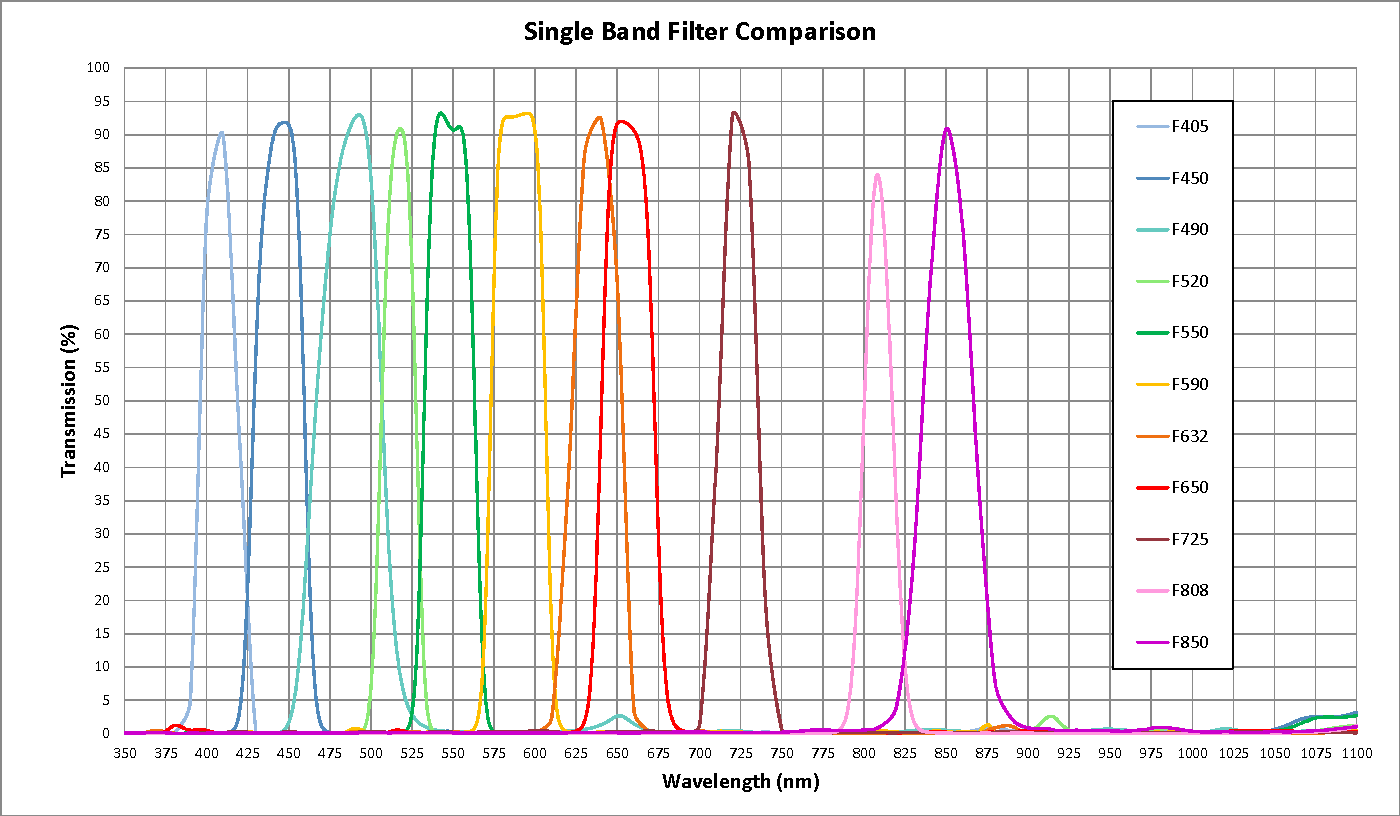
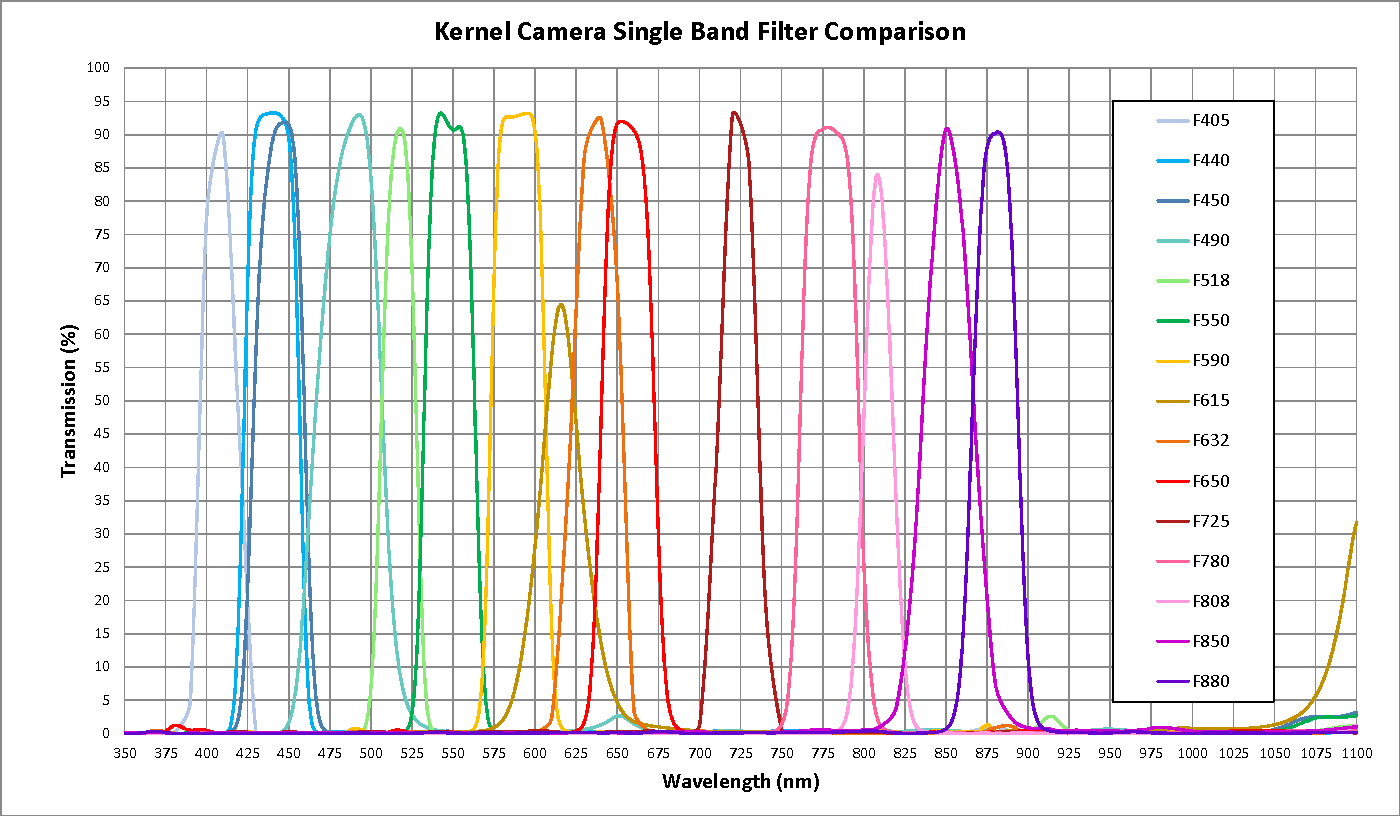
Updates kernel-filters.md
Auto commit by GitBook Editor

diff --git a/kernel-filters.md b/kernel-filters.md
@@ -13,17 +13,22 @@
 
 | Filter Model Name | Recommended Sensor Type | Peak Wavelength| Transmission Range | Transmission Chart | Typical Uses |
 |-------------------|-------------------------|----------------|--------------------|--------------------|--------------|
-| F644              | RGB                     | X              | 395-638nm          | [VIEW](#f644)      | Visible light only (Cut-off 648nm) |
-| F405              | MONO                    | 405nm          | 400-415nm          | [VIEW](#f405)           | Ultraviolet (UV) detection |
-| F450              | MONO                    | 450nm          | 445-465nm          | [VIEW](#f450)           | Blue vegetative indices |
-| F520              | MONO                    | 520nm          | 515-525nm          | [VIEW](#f520)           | Green vegetative indices |
-| F550              | MONO                    | 550nm          | 535-558nm          | [VIEW](#f550)           | Green vegetative indices |
-| F590              | MONO                    | 590nm          | 564-615nm          | [VIEW](#f590)           | Green vegetative indices |
-| F632              | MONO                    | 632nm          | 625-640nm          | [VIEW](#f632)           | Red vegetative indices |
-| F650              | MONO                    | 650nm          | 643-665nm          | [VIEW](#f650)           | Red vegetative indices |
+| F644              | RGB                     | X              | 395-638nm          | [VIEW](#f644)      | Visible light RGB only (Cut-off 648nm) |
+| F405              | MONO                    | 405nm          | 400-415nm          | [VIEW](#f405)           | Ultraviolet (UV) light detection |
+| F440              | MONO                    | 440nm          | 416-464nm          | [VIEW](#f440)           | Blue light detection |
+| F450              | MONO                    | 450nm          | 445-465nm          | [VIEW](#f450)           | Blue light indices |
+| F490              | MONO                    | 490nm          | 450-532nm          | [VIEW](#f490)           | Blue light indices |
+| F518              | MONO                    | 518nm          | 498-536nm          | [VIEW](#f518)           | Green light indices |
+| F550              | MONO                    | 550nm          | 535-558nm          | [VIEW](#f550)           | Green light indices |
+| F590              | MONO                    | 590nm          | 564-615nm          | [VIEW](#f590)           | Green light indices |
+| F615              | MONO                    | 615nm          | 576-674nm          | [VIEW](#f615)           | Green light indices |
+| F632              | MONO                    | 632nm          | 625-640nm          | [VIEW](#f632)           | Red light indices |
+| F650              | MONO                    | 650nm          | 643-665nm          | [VIEW](#f650)           | Red light indices |
 | F725              | MONO                    | 725nm          | 717-732nm          | [VIEW](#f725)           | Red-edge: Deeper canopy penetration, earlier detection of reduction in photosynthesis |
-| F808              | MONO                    | 808nm          | 798-820nm          | [VIEW](#f808)           | NIR vegetative indices |
-| F850              | MONO                    | 850nm          | 845-860nm          | [VIEW](#f850)           | NIR vegetative indices |
+| F780              | MONO                    | 780nm          | 750-810nm          | [VIEW](#f780)           | NIR light indices |
+| F808              | MONO                    | 808nm          | 798-820nm          | [VIEW](#f808)           | NIR light indices |
+| F850              | MONO                    | 850nm          | 845-860nm          | [VIEW](#f850)           | NIR light indices |
+| F880              | MONO                    | 880nm          | 852-906nm          | [VIEW](#f880)           | NIR light indices |
 | F395-870          | RGB                     | 395nm & 870nm  | 375-425nm & 745-970nm          | [VIEW](#f395-870)           | Atmospheric indices|
 | F475-850          | RGB                     | 475nm & 850nm  | 460-490nm & 830-870nm          | [VIEW](#f475-850)           | BNDVI |
 | F550-850          | RGB                     | 550nm & 850nm  | 535-565nm & 830-870nm          | [VIEW](#f550-850)           | GNDVI: general plant "green-ness" |
@@ -59,18 +64,27 @@
 #### F405
 [Download Data](http://docs.peauproductions.com/kernel/filters/F405.xlsx)
 ![](/assets/f405.png)
+#### F440
+[Download Data](http://docs.peauproductions.com/kernel/filters/F440.xlsx)
+![](/assets/f440.png)
 #### F450
 [Download Data](http://docs.peauproductions.com/kernel/filters/F450.xlsx)
 ![](/assets/f450.png)
-#### F520
-[Download Data](http://docs.peauproductions.com/kernel/filters/F520.xlsx)
-![](/assets/f520.png)
+#### F490
+[Download Data](http://docs.peauproductions.com/kernel/filters/F490.xlsx)
+![](/assets/f490.png)
+#### F518
+[Download Data](http://docs.peauproductions.com/kernel/filters/F518.xlsx)
+![](/assets/f518.png)
 #### F550
 [Download Data](http://docs.peauproductions.com/kernel/filters/F550.xlsx)
 ![](/assets/f550.png)
 #### F590
 [Download Data](http://docs.peauproductions.com/kernel/filters/F590.xlsx)
 ![](/assets/f590.png)
+#### F615
+[Download Data](http://docs.peauproductions.com/kernel/filters/F615.xlsx)
+![](/assets/f615.png)
 #### F632
 [Download Data](http://docs.peauproductions.com/kernel/filters/F632.xlsx)
 ![](/assets/f632.png)
@@ -80,12 +94,18 @@
 #### F725
 [Download Data](http://docs.peauproductions.com/kernel/filters/F725.xlsx)
 ![](/assets/f725.png)
+#### F780
+[Download Data](http://docs.peauproductions.com/kernel/filters/F780.xlsx)
+![](/assets/f780.png)
 #### F808
 [Download Data](http://docs.peauproductions.com/kernel/filters/F808.xlsx)
 ![](/assets/f808.png)
 #### F850
 [Download Data](http://docs.peauproductions.com/kernel/filters/F850.xlsx)
 ![](/assets/f850.png)
+#### F880
+[Download Data](http://docs.peauproductions.com/kernel/filters/F880.xlsx)
+![](/assets/f880.png)
 #### F395-870
 [Download Data](http://docs.peauproductions.com/kernel/filters/F395-870.xlsx)
 ![](/assets/f395-870.png)
